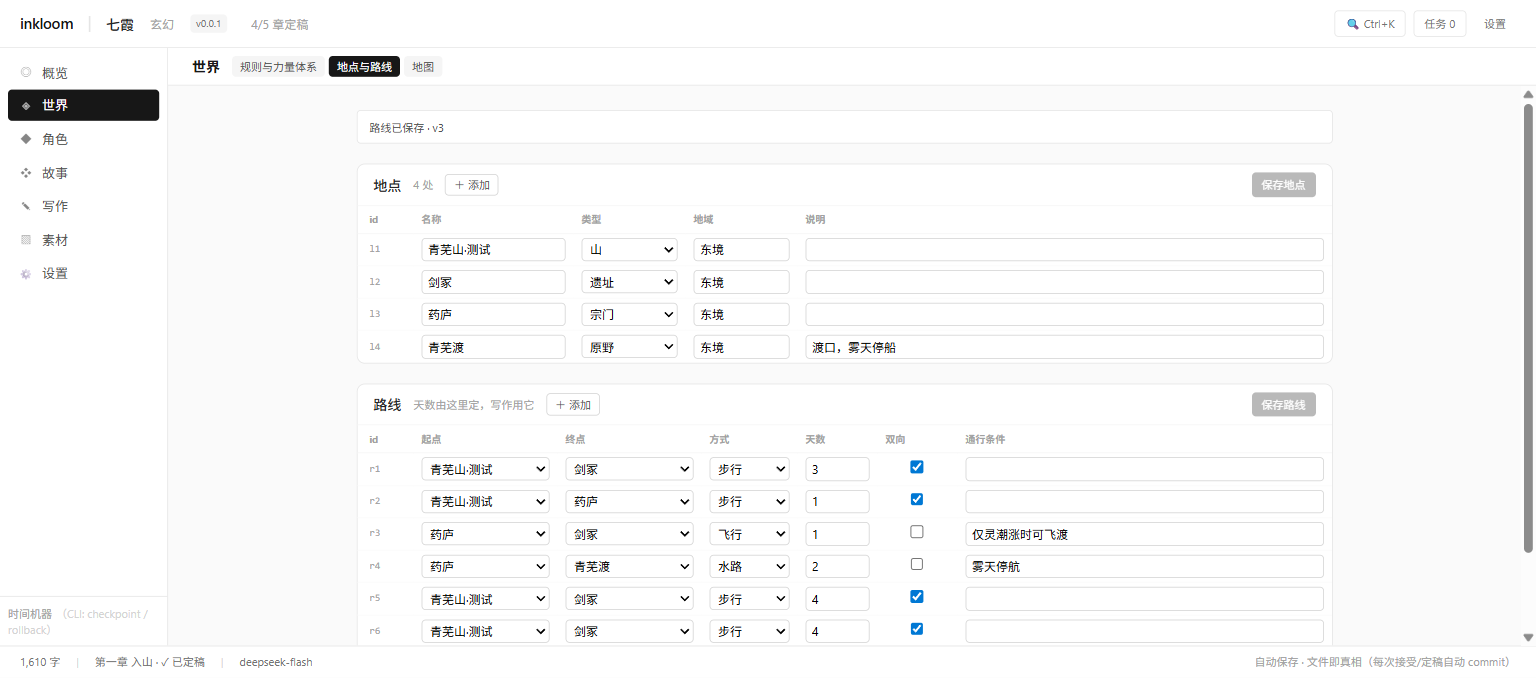
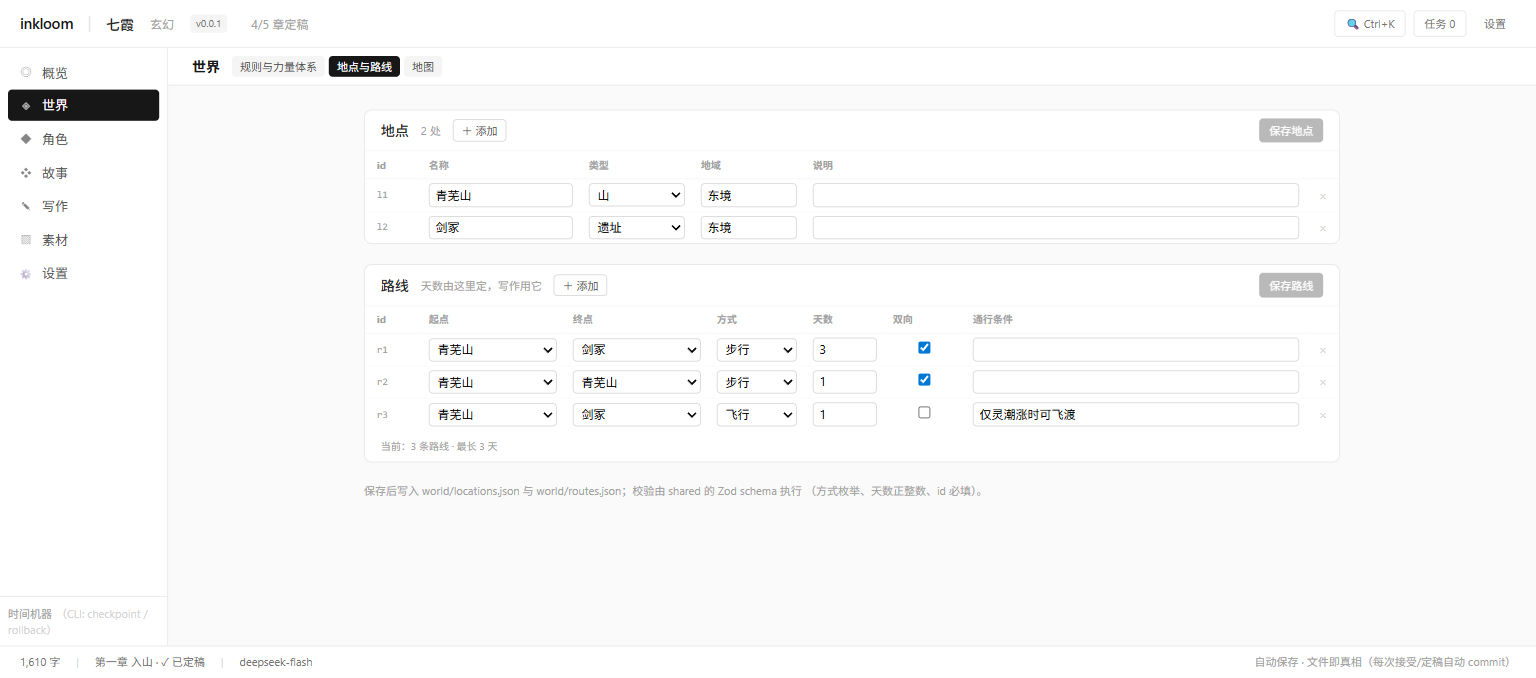
feat: 地图拖拽定位（坐标写回 locations.json）+ 地点/路线/角色删除

diff --git a/apps/web/src/pages/WorldPage.tsx b/apps/web/src/pages/WorldPage.tsx
@@ -50,15 +50,7 @@ export function WorldPage() {
         </div>
       </header>
 
-      {tab === 'map' ? (
-        <div className="min-h-0 flex-1">
-          <WorldMap />
-        </div>
-      ) : tab === 'places' ? (
-        <PlacesEditor />
-      ) : (
-        <RulesEditor />
-      )}
+      {tab === 'map' ? <MapEditor /> : tab === 'places' ? <PlacesEditor /> : <RulesEditor />}
     </div>
   )
 }
@@ -272,6 +264,69 @@ function RulesEditor() {
 }
 
 /**
+ * 地图布局编辑：拖完不立即写盘，而是攒成「已移动」再保存。
+ *
+ * ★ 查看与编辑分开：没拖动时地图就是个只看不动的图；
+ *   拖了就明确告诉你要不要保存，避免误拖改书。
+ */
+function MapEditor() {
+  const { data: locations } = useLocations()
+  const save = useSaveElement()
+  const [moved, setMoved] = useState<Record<string, { x: number; y: number }>>({})
+  const [msg, setMsg] = useState<string | null>(null)
+  const count = Object.keys(moved).length
+
+  const submit = (): void => {
+    if (locations === undefined || count === 0) return
+    const next = locations.map((l) => {
+      const p = moved[l.id]
+      return p === undefined ? l : { ...l, x: Math.round(p.x), y: Math.round(p.y) }
+    })
+    save.mutate(
+      {
+        relPath: 'world/locations.json',
+        entityType: 'location',
+        entityId: 'locations',
+        payload: next,
+        reason: '界面拖动地图保存布局',
+      },
+      {
+        onSuccess: (r) => {
+          setMsg(`布局已保存 · v${r.version}`)
+          setMoved({})
+        },
+        onError: (e) => setMsg(e.message),
+      },
+    )
+  }
+
+  return (
+    <div className="flex min-h-0 flex-1 flex-col">
+      <div className="flex shrink-0 items-center gap-3 border-b border-neutral-200 bg-white px-4 py-1.5 text-[11px]">
+        <span className="text-neutral-500">
+          {count === 0 ? '拖动地点调整位置' : `${count} 个地点已移动`}
+        </span>
+        <button
+          type="button"
+          onClick={submit}
+          disabled={count === 0 || save.isPending}
+          className="rounded bg-neutral-900 px-2.5 py-1 text-[11px] text-white disabled:opacity-30"
+        >
+          {save.isPending ? '保存中…' : '保存布局'}
+        </button>
+        {msg !== null && <span className="text-neutral-500">{msg}</span>}
+        <span className="ml-auto text-neutral-400">
+          坐标写入 world/locations.json，下次打开就在原位
+        </span>
+      </div>
+      <div className="min-h-0 flex-1">
+        <WorldMap onMove={(id, x, y) => setMoved((m) => ({ ...m, [id]: { x, y } }))} />
+      </div>
+    </div>
+  )
+}
+
+/**
  * 地点与路线编辑。
  *
  * ★ 路线天数由系统算（spec P0-13）：写作时引用「走了三天」必须与这里的值一致，
@@ -401,6 +456,7 @@ function PlacesEditor() {
                 <th className="w-28 px-2 py-1.5">类型</th>
                 <th className="w-28 px-2 py-1.5">地域</th>
                 <th className="px-2 py-1.5">说明</th>
+                <th className="w-8 px-2 py-1.5" />
               </tr>
             </thead>
             <tbody>
@@ -461,11 +517,21 @@ function PlacesEditor() {
                       className="w-full rounded border border-neutral-300 px-1.5 py-0.5"
                     />
                   </td>
+                  <td className="px-1 py-1 text-center">
+                    <button
+                      type="button"
+                      aria-label={`删除地点 ${l.id}`}
+                      onClick={() => setLocDraft(locs.filter((x) => x.id !== l.id))}
+                      className="text-neutral-300 hover:text-rose-600"
+                    >
+                      ×
+                    </button>
+                  </td>
                 </tr>
               ))}
               {locs.length === 0 && (
                 <tr>
-                  <td colSpan={5} className="px-3 py-6 text-center text-xs text-neutral-400">
+                  <td colSpan={6} className="px-3 py-6 text-center text-xs text-neutral-400">
                     还没有地点
                   </td>
                 </tr>
@@ -519,6 +585,7 @@ function PlacesEditor() {
                 <th className="w-20 px-2 py-1.5">天数</th>
                 <th className="w-20 px-2 py-1.5">双向</th>
                 <th className="px-2 py-1.5">通行条件</th>
+                <th className="w-8 px-2 py-1.5" />
               </tr>
             </thead>
             <tbody>
@@ -617,11 +684,21 @@ function PlacesEditor() {
                       className="w-full rounded border border-neutral-300 px-1.5 py-0.5"
                     />
                   </td>
+                  <td className="px-1 py-1 text-center">
+                    <button
+                      type="button"
+                      aria-label={`删除路线 ${r.id}`}
+                      onClick={() => setRouteDraft(rts.filter((x) => x.id !== r.id))}
+                      className="text-neutral-300 hover:text-rose-600"
+                    >
+                      ×
+                    </button>
+                  </td>
                 </tr>
               ))}
               {rts.length === 0 && (
                 <tr>
-                  <td colSpan={7} className="px-3 py-6 text-center text-xs text-neutral-400">
+                  <td colSpan={8} className="px-3 py-6 text-center text-xs text-neutral-400">
                     还没有路线
                   </td>
                 </tr>

diff --git a/apps/web/src/components/WorldMap.tsx b/apps/web/src/components/WorldMap.tsx
@@ -9,7 +9,7 @@ import {
   Position,
   ReactFlow,
 } from '@xyflow/react'
-import { useMemo } from 'react'
+import { useMemo, useState } from 'react'
 import '@xyflow/react/dist/style.css'
 import { useWorld } from '../api/hooks'
 
@@ -81,11 +81,14 @@ const NODE_TYPES = { place: PlaceNodeView }
  *
  * ★ 有坐标用坐标（作者手工摆位），没坐标一律自动圆环——不在前端
  *   "猜"一个看起来像地图的假坐标，那会把作者没表达的空间关系画出来。
+ * ★ 传了 onMove 才允许拖：拖完只改本地位置并上报，写盘由调用方决定——
+ *   查看地图时不该因为误拖就改了书。
  * ★ 路线标注天数而不是距离：天数才是 P0-13 要求系统算的那个数，
  *   也是写作时真正会引用的数（「走了三天」）。
  */
-export function WorldMap() {
+export function WorldMap({ onMove }: { onMove?: (id: string, x: number, y: number) => void }) {
   const { data, isLoading } = useWorld()
+  const [localPos, setLocalPos] = useState<Record<string, { x: number; y: number }>>({})
 
   const { nodes, edges } = useMemo(() => {
     const locations = data?.locations ?? []
@@ -105,7 +108,8 @@ export function WorldMap() {
       return {
         id: l.id,
         type: 'place',
-        position: hasCoords && l.x !== null && l.y !== null ? { x: l.x, y: l.y } : auto,
+        position:
+          localPos[l.id] ?? (hasCoords && l.x !== null && l.y !== null ? { x: l.x, y: l.y } : auto),
         data: { name: l.name, type: l.type, region: l.region },
       }
     })
@@ -127,7 +131,7 @@ export function WorldMap() {
     }))
 
     return { nodes: nodeList, edges: edgeList }
-  }, [data])
+  }, [data, localPos])
 
   if (isLoading) return <p className="p-6 text-sm text-neutral-500">读取世界…</p>
 
@@ -148,7 +152,11 @@ export function WorldMap() {
         <span>
           {nodes.length} 个地点 · {edges.length} 条路线
         </span>
-        <span className="ml-auto text-neutral-400">路线上的天数由系统计算，写作时直接引用</span>
+        <span className="ml-auto text-neutral-400">
+          {onMove === undefined
+            ? '路线上的天数由系统计算，写作时直接引用'
+            : '拖动地点调整位置，松手后点「保存布局」'}
+        </span>
       </div>
       <div className="relative min-h-0 flex-1">
         <div className="absolute inset-0">
@@ -158,7 +166,11 @@ export function WorldMap() {
             nodeTypes={NODE_TYPES}
             fitView
             fitViewOptions={{ padding: 0.2 }}
-            nodesDraggable={false}
+            nodesDraggable={onMove !== undefined}
+            onNodeDragStop={(_, node) => {
+              setLocalPos((p) => ({ ...p, [node.id]: { x: node.position.x, y: node.position.y } }))
+              onMove?.(node.id, node.position.x, node.position.y)
+            }}
           >
             <Background />
             <Controls showInteractive={false} />

diff --git a/apps/web/src/pages/CastPage.tsx b/apps/web/src/pages/CastPage.tsx
@@ -56,6 +56,37 @@ export function CastPage() {
     setMsg(null)
   }
 
+  /** 删除：从数组移除。revision 与 git 历史会留下它，不是真的“消失” */
+  const removeCharacter = (): void => {
+    if (cast === undefined || editing === null) return
+    const target = cast.find((c) => c.id === editing)
+    if (target === undefined) return
+    if (
+      !window.confirm(
+        `删除「${target.name}」？\n关系里对它的引用不会自动清理，可从书内 git 历史找回。`,
+      )
+    ) {
+      return
+    }
+    const next = cast.filter((c) => c.id !== editing)
+    save.mutate(
+      {
+        relPath: 'characters/index.json',
+        entityType: 'character',
+        entityId: editing,
+        payload: next,
+        reason: '界面删除角色',
+      },
+      {
+        onSuccess: (r) => {
+          setMsg(`已删除 ${target.name} · v${r.version}`)
+          setEditing(null)
+        },
+        onError: (e) => setMsg(e.message),
+      },
+    )
+  }
+
   const submit = (): void => {
     if (cast === undefined || editing === null) return
     const idx = cast.findIndex((c) => c.id === editing)
@@ -219,6 +250,15 @@ export function CastPage() {
               >
                 {save.isPending ? '保存中…' : '保存'}
               </button>
+              {rows.some((c) => c.id === editing) && (
+                <button
+                  type="button"
+                  onClick={removeCharacter}
+                  className="mt-2 w-full rounded border border-neutral-200 py-1 text-[11px] text-neutral-400 hover:text-rose-600"
+                >
+                  删除角色
+                </button>
+              )}
               <p className="mt-2 text-[10px] text-neutral-400">
                 保存会写入 characters/index.json，并自动生成 revision 与 git commit。
               </p>

diff --git a/apps/web/src/api/hooks.ts b/apps/web/src/api/hooks.ts
@@ -181,6 +181,8 @@ export function useSaveElement() {
       // 角色名/关系可能被别处引用，一并刷新
       void qc.invalidateQueries({ queryKey: ['relations'] })
       void qc.invalidateQueries({ queryKey: ['overview'] })
+      // 地点/路线同时被 /api/world 读取（地图），不刷新的话图还是旧位置
+      void qc.invalidateQueries({ queryKey: ['world'] })
     },
   })
 }
